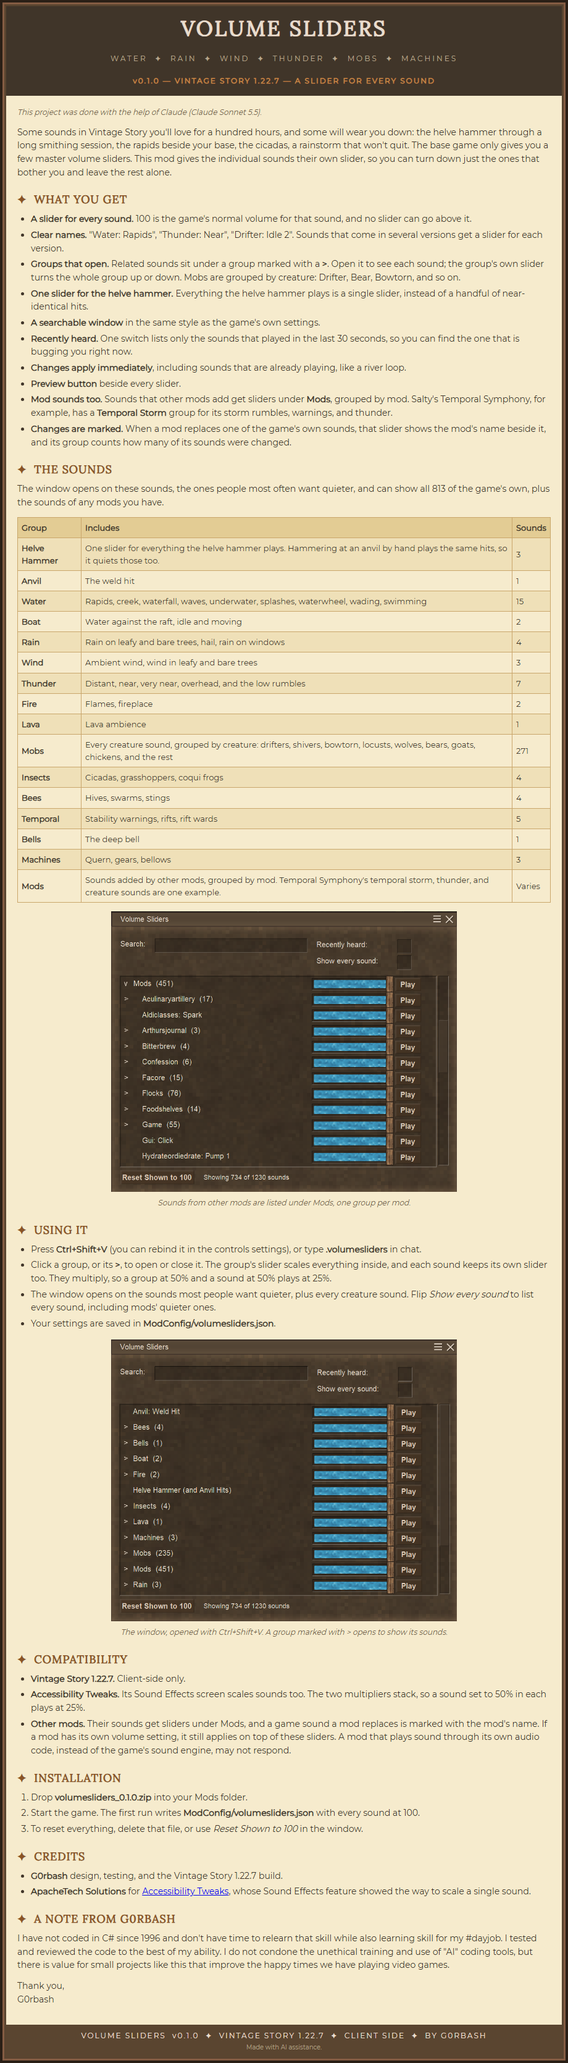
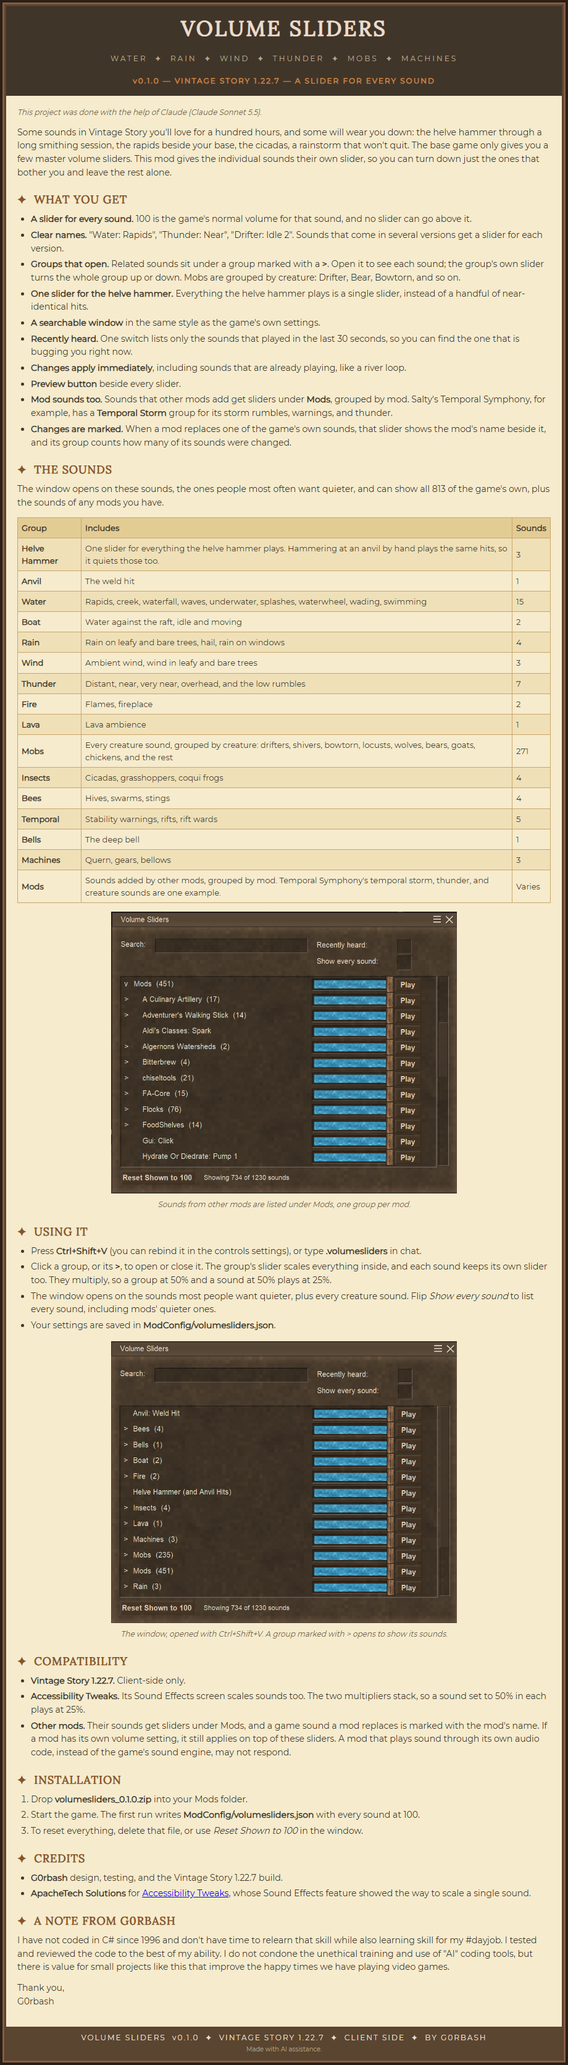
Mod DB description: CSS padding/alignment and strong/em instead of legacy attributes; updated Mods screenshot

diff --git a/docs/moddb-description.html b/docs/moddb-description.html
@@ -1,47 +1,47 @@
 <!-- Paste into the mod description editor on mods.vintagestory.at (source / HTML view). Generated by tools/make_description.py; edit the content there. -->
-<div style="max-width: 920px;"><table style="border-collapse: collapse; width: 100%;" cellpadding="0"><tbody><tr><td style="background: #2a1f16; padding: 4px;"><table style="border-collapse: collapse; width: 100%;" cellpadding="0"><tbody><tr><td style="background: #845c43; padding: 3px;"><table style="border-collapse: collapse; width: 100%;" cellpadding="0"><tbody><tr><td style="background: #5a4530; padding: 3px;"><table style="border-collapse: collapse; width: 100%;" cellpadding="16"><tbody><tr><td style="background: #403529;" align="center"><span style="font-family: Lora, Georgia, 'Times New Roman', serif; font-size: 34px; font-weight: bold; letter-spacing: 3px; color: #e9ddce;">VOLUME SLIDERS</span><br><br><span style="font-family: Montserrat, Verdana, sans-serif; font-size: 12px; letter-spacing: 3px; color: #b5a48c;">WATER &nbsp;&#10022;&nbsp; RAIN &nbsp;&#10022;&nbsp; WIND &nbsp;&#10022;&nbsp; THUNDER &nbsp;&#10022;&nbsp; MOBS &nbsp;&#10022;&nbsp; MACHINES</span><br><br><span style="font-family: Montserrat, Verdana, sans-serif; font-size: 12px; font-weight: bold; letter-spacing: 2px; color: #c58948;">v0.1.0 &mdash; VINTAGE STORY 1.22.7 &mdash; A SLIDER FOR EVERY SOUND</span></td></tr></tbody></table><table style="border-collapse: collapse; width: 100%;" cellpadding="18"><tbody><tr><td style="background: #f6ebcd; color: #403529; font-family: Montserrat, Verdana, sans-serif; font-size: 14px; line-height: 1.55;">
-<p style="margin: 0 0 12px 0; font-size: 12px; color: #6e5a44;"><i>This project was done with the help of Claude (Claude Sonnet 5.5).</i></p>
+<div style="max-width: 920px;"><table style="border-collapse: collapse; width: 100%;"><tbody><tr><td style="background: #2a1f16; padding: 4px;"><table style="border-collapse: collapse; width: 100%;"><tbody><tr><td style="background: #845c43; padding: 3px;"><table style="border-collapse: collapse; width: 100%;"><tbody><tr><td style="background: #5a4530; padding: 3px;"><table style="border-collapse: collapse; width: 100%;"><tbody><tr><td style="background: #403529; padding: 16px; text-align: center;"><span style="font-family: Lora, Georgia, 'Times New Roman', serif; font-size: 34px; font-weight: bold; letter-spacing: 3px; color: #e9ddce;">VOLUME SLIDERS</span><br><br><span style="font-family: Montserrat, Verdana, sans-serif; font-size: 12px; letter-spacing: 3px; color: #b5a48c;">WATER &nbsp;&#10022;&nbsp; RAIN &nbsp;&#10022;&nbsp; WIND &nbsp;&#10022;&nbsp; THUNDER &nbsp;&#10022;&nbsp; MOBS &nbsp;&#10022;&nbsp; MACHINES</span><br><br><span style="font-family: Montserrat, Verdana, sans-serif; font-size: 12px; font-weight: bold; letter-spacing: 2px; color: #c58948;">v0.1.0 &mdash; VINTAGE STORY 1.22.7 &mdash; A SLIDER FOR EVERY SOUND</span></td></tr></tbody></table><table style="border-collapse: collapse; width: 100%;"><tbody><tr><td style="background: #f6ebcd; color: #403529; padding: 18px; font-family: Montserrat, Verdana, sans-serif; font-size: 14px; line-height: 1.55;">
+<p style="margin: 0 0 12px 0; font-size: 12px; color: #6e5a44;"><em>This project was done with the help of Claude (Claude Sonnet 5.5).</em></p>
 <p style="margin: 0 0 12px 0;">Some sounds in Vintage Story you'll love for a hundred hours, and some will wear you down: the helve hammer through a long smithing session, the rapids beside your base, the cicadas, a rainstorm that won't quit. The base game only gives you a few master volume sliders. This mod gives the individual sounds their own slider, so you can turn down just the ones that bother you and leave the rest alone.</p>
 <div class="spoiler">
 <div class="spoiler-toggle">Screenshots</div>
 <div class="spoiler-text">
 <p><img src="https://raw.githubusercontent.com/g0rbash/Vintage-Story---Volume-Sliders/main/docs/images/screenshots/window.png" width="700" height="571" alt="The window, opened with Ctrl+Shift+V. A group marked with &gt; opens to show its sounds."></p>
-<p><i>The window, opened with Ctrl+Shift+V. A group marked with &gt; opens to show its sounds.</i></p>
-<p><img src="https://raw.githubusercontent.com/g0rbash/Vintage-Story---Volume-Sliders/main/docs/images/screenshots/mods-section.png" width="700" height="568" alt="Sounds from other mods are listed under Mods, one group per mod."></p>
-<p><i>Sounds from other mods are listed under Mods, one group per mod.</i></p>
+<p><em>The window, opened with Ctrl+Shift+V. A group marked with &gt; opens to show its sounds.</em></p>
+<p><img src="https://raw.githubusercontent.com/g0rbash/Vintage-Story---Volume-Sliders/main/docs/images/screenshots/mods-section.png" width="700" height="570" alt="Sounds from other mods are listed under Mods, one group per mod."></p>
+<p><em>Sounds from other mods are listed under Mods, one group per mod.</em></p>
 </div>
 </div>
 <p style="margin: 20px 0 6px 0; color: #8a5426; font-family: Lora, Georgia, 'Times New Roman', serif; font-size: 18px; font-weight: bold; letter-spacing: 1px;">&#10022;&nbsp; WHAT YOU GET</p>
-<ul style="margin: 0 0 14px 22px; padding: 0;"><li style="margin: 0 0 4px 0;"><b>A slider for every sound.</b> 100 is the game's normal volume for that sound, and no slider can go above it.</li><li style="margin: 0 0 4px 0;"><b>Clear names.</b> "Water: Rapids", "Thunder: Near", "Drifter: Idle 2". Sounds that come in several versions get a slider for each version.</li><li style="margin: 0 0 4px 0;"><b>Groups that open.</b> Related sounds sit under a group marked with a <b>&gt;</b>. Open it to see each sound; the group's own slider turns the whole group up or down. Mobs are grouped by creature: Drifter, Bear, Bowtorn, and so on.</li><li style="margin: 0 0 4px 0;"><b>One slider for the helve hammer.</b> Everything the helve hammer plays is a single slider, instead of a handful of near-identical hits.</li><li style="margin: 0 0 4px 0;"><b>A searchable window</b> in the same style as the game's own settings.</li><li style="margin: 0 0 4px 0;"><b>Recently heard.</b> One switch lists only the sounds that played in the last 30 seconds, so you can find the one that is bugging you right now.</li><li style="margin: 0 0 4px 0;"><b>Changes apply immediately</b>, including sounds that are already playing, like a river loop.</li><li style="margin: 0 0 4px 0;"><b>Preview button</b> beside every slider.</li><li style="margin: 0 0 4px 0;"><b>Mod sounds too.</b> Sounds that other mods add get sliders under <b>Mods</b>, grouped by mod. Salty's Temporal Symphony, for example, has a <b>Temporal Storm</b> group for its storm rumbles, warnings, and thunder.</li><li style="margin: 0 0 4px 0;"><b>Changes are marked.</b> When a mod replaces one of the game's own sounds, that slider shows the mod's name beside it, and its group counts how many of its sounds were changed.</li></ul>
+<ul style="margin: 0 0 14px 22px; padding: 0;"><li style="margin: 0 0 4px 0;"><strong>A slider for every sound.</strong> 100 is the game's normal volume for that sound, and no slider can go above it.</li><li style="margin: 0 0 4px 0;"><strong>Clear names.</strong> "Water: Rapids", "Thunder: Near", "Drifter: Idle 2". Sounds that come in several versions get a slider for each version.</li><li style="margin: 0 0 4px 0;"><strong>Groups that open.</strong> Related sounds sit under a group marked with a <strong>&gt;</strong>. Open it to see each sound; the group's own slider turns the whole group up or down. Mobs are grouped by creature: Drifter, Bear, Bowtorn, and so on.</li><li style="margin: 0 0 4px 0;"><strong>One slider for the helve hammer.</strong> Everything the helve hammer plays is a single slider, instead of a handful of near-identical hits.</li><li style="margin: 0 0 4px 0;"><strong>A searchable window</strong> in the same style as the game's own settings.</li><li style="margin: 0 0 4px 0;"><strong>Recently heard.</strong> One switch lists only the sounds that played in the last 30 seconds, so you can find the one that is bugging you right now.</li><li style="margin: 0 0 4px 0;"><strong>Changes apply immediately</strong>, including sounds that are already playing, like a river loop.</li><li style="margin: 0 0 4px 0;"><strong>Preview button</strong> beside every slider.</li><li style="margin: 0 0 4px 0;"><strong>Mod sounds too.</strong> Sounds that other mods add get sliders under <strong>Mods</strong>, grouped by mod. Salty's Temporal Symphony, for example, has a <strong>Temporal Storm</strong> group for its storm rumbles, warnings, and thunder.</li><li style="margin: 0 0 4px 0;"><strong>Changes are marked.</strong> When a mod replaces one of the game's own sounds, that slider shows the mod's name beside it, and its group counts how many of its sounds were changed.</li></ul>
 <p style="margin: 20px 0 6px 0; color: #8a5426; font-family: Lora, Georgia, 'Times New Roman', serif; font-size: 18px; font-weight: bold; letter-spacing: 1px;">&#10022;&nbsp; THE SOUNDS</p>
 <p style="margin: 0 0 12px 0;">The window opens on these sounds, the ones people most often want quieter, and can show all 813 of the game's own, plus the sounds of any mods you have.</p>
-<table style="border-collapse: collapse; margin: 0 0 14px 0; width: 100%; font-family: Montserrat, Verdana, sans-serif; font-size: 13px; color: #403529;" cellpadding="6"><tbody>
-<tr style="background: #e3cc94;"><td style="border: 1px solid #c9a66b;"><b>Group</b></td><td style="border: 1px solid #c9a66b;"><b>Includes</b></td><td style="border: 1px solid #c9a66b;"><b>Sounds</b></td></tr>
-<tr style="background: #efe0b8;"><td style="border: 1px solid #c9a66b;"><b>Helve Hammer</b></td><td style="border: 1px solid #c9a66b;">One slider for everything the helve hammer plays. Hammering at an anvil by hand plays the same hits, so it quiets those too.</td><td style="border: 1px solid #c9a66b;">3</td></tr>
-<tr style="background: #f6ebcd;"><td style="border: 1px solid #c9a66b;"><b>Anvil</b></td><td style="border: 1px solid #c9a66b;">The weld hit</td><td style="border: 1px solid #c9a66b;">1</td></tr>
-<tr style="background: #efe0b8;"><td style="border: 1px solid #c9a66b;"><b>Water</b></td><td style="border: 1px solid #c9a66b;">Rapids, creek, waterfall, waves, underwater, splashes, waterwheel, wading, swimming</td><td style="border: 1px solid #c9a66b;">15</td></tr>
-<tr style="background: #f6ebcd;"><td style="border: 1px solid #c9a66b;"><b>Boat</b></td><td style="border: 1px solid #c9a66b;">Water against the raft, idle and moving</td><td style="border: 1px solid #c9a66b;">2</td></tr>
-<tr style="background: #efe0b8;"><td style="border: 1px solid #c9a66b;"><b>Rain</b></td><td style="border: 1px solid #c9a66b;">Rain on leafy and bare trees, hail, rain on windows</td><td style="border: 1px solid #c9a66b;">4</td></tr>
-<tr style="background: #f6ebcd;"><td style="border: 1px solid #c9a66b;"><b>Wind</b></td><td style="border: 1px solid #c9a66b;">Ambient wind, wind in leafy and bare trees</td><td style="border: 1px solid #c9a66b;">3</td></tr>
-<tr style="background: #efe0b8;"><td style="border: 1px solid #c9a66b;"><b>Thunder</b></td><td style="border: 1px solid #c9a66b;">Distant, near, very near, overhead, and the low rumbles</td><td style="border: 1px solid #c9a66b;">7</td></tr>
-<tr style="background: #f6ebcd;"><td style="border: 1px solid #c9a66b;"><b>Fire</b></td><td style="border: 1px solid #c9a66b;">Flames, fireplace</td><td style="border: 1px solid #c9a66b;">2</td></tr>
-<tr style="background: #efe0b8;"><td style="border: 1px solid #c9a66b;"><b>Lava</b></td><td style="border: 1px solid #c9a66b;">Lava ambience</td><td style="border: 1px solid #c9a66b;">1</td></tr>
-<tr style="background: #f6ebcd;"><td style="border: 1px solid #c9a66b;"><b>Mobs</b></td><td style="border: 1px solid #c9a66b;">Every creature sound, grouped by creature: drifters, shivers, bowtorn, locusts, wolves, bears, goats, chickens, and the rest</td><td style="border: 1px solid #c9a66b;">271</td></tr>
-<tr style="background: #efe0b8;"><td style="border: 1px solid #c9a66b;"><b>Insects</b></td><td style="border: 1px solid #c9a66b;">Cicadas, grasshoppers, coqui frogs</td><td style="border: 1px solid #c9a66b;">4</td></tr>
-<tr style="background: #f6ebcd;"><td style="border: 1px solid #c9a66b;"><b>Bees</b></td><td style="border: 1px solid #c9a66b;">Hives, swarms, stings</td><td style="border: 1px solid #c9a66b;">4</td></tr>
-<tr style="background: #efe0b8;"><td style="border: 1px solid #c9a66b;"><b>Temporal</b></td><td style="border: 1px solid #c9a66b;">Stability warnings, rifts, rift wards</td><td style="border: 1px solid #c9a66b;">5</td></tr>
-<tr style="background: #f6ebcd;"><td style="border: 1px solid #c9a66b;"><b>Bells</b></td><td style="border: 1px solid #c9a66b;">The deep bell</td><td style="border: 1px solid #c9a66b;">1</td></tr>
-<tr style="background: #efe0b8;"><td style="border: 1px solid #c9a66b;"><b>Machines</b></td><td style="border: 1px solid #c9a66b;">Quern, gears, bellows</td><td style="border: 1px solid #c9a66b;">3</td></tr>
-<tr style="background: #f6ebcd;"><td style="border: 1px solid #c9a66b;"><b>Mods</b></td><td style="border: 1px solid #c9a66b;">Sounds added by other mods, grouped by mod. Temporal Symphony's temporal storm, thunder, and creature sounds are one example.</td><td style="border: 1px solid #c9a66b;">Varies</td></tr></tbody></table>
+<table style="border-collapse: collapse; margin: 0 0 14px 0; width: 100%; font-family: Montserrat, Verdana, sans-serif; font-size: 13px; color: #403529;"><tbody>
+<tr style="background: #e3cc94;"><td style="border: 1px solid #c9a66b; padding: 6px;"><strong>Group</strong></td><td style="border: 1px solid #c9a66b; padding: 6px;"><strong>Includes</strong></td><td style="border: 1px solid #c9a66b; padding: 6px;"><strong>Sounds</strong></td></tr>
+<tr style="background: #efe0b8;"><td style="border: 1px solid #c9a66b; padding: 6px;"><strong>Helve Hammer</strong></td><td style="border: 1px solid #c9a66b; padding: 6px;">One slider for everything the helve hammer plays. Hammering at an anvil by hand plays the same hits, so it quiets those too.</td><td style="border: 1px solid #c9a66b; padding: 6px;">3</td></tr>
+<tr style="background: #f6ebcd;"><td style="border: 1px solid #c9a66b; padding: 6px;"><strong>Anvil</strong></td><td style="border: 1px solid #c9a66b; padding: 6px;">The weld hit</td><td style="border: 1px solid #c9a66b; padding: 6px;">1</td></tr>
+<tr style="background: #efe0b8;"><td style="border: 1px solid #c9a66b; padding: 6px;"><strong>Water</strong></td><td style="border: 1px solid #c9a66b; padding: 6px;">Rapids, creek, waterfall, waves, underwater, splashes, waterwheel, wading, swimming</td><td style="border: 1px solid #c9a66b; padding: 6px;">15</td></tr>
+<tr style="background: #f6ebcd;"><td style="border: 1px solid #c9a66b; padding: 6px;"><strong>Boat</strong></td><td style="border: 1px solid #c9a66b; padding: 6px;">Water against the raft, idle and moving</td><td style="border: 1px solid #c9a66b; padding: 6px;">2</td></tr>
+<tr style="background: #efe0b8;"><td style="border: 1px solid #c9a66b; padding: 6px;"><strong>Rain</strong></td><td style="border: 1px solid #c9a66b; padding: 6px;">Rain on leafy and bare trees, hail, rain on windows</td><td style="border: 1px solid #c9a66b; padding: 6px;">4</td></tr>
+<tr style="background: #f6ebcd;"><td style="border: 1px solid #c9a66b; padding: 6px;"><strong>Wind</strong></td><td style="border: 1px solid #c9a66b; padding: 6px;">Ambient wind, wind in leafy and bare trees</td><td style="border: 1px solid #c9a66b; padding: 6px;">3</td></tr>
+<tr style="background: #efe0b8;"><td style="border: 1px solid #c9a66b; padding: 6px;"><strong>Thunder</strong></td><td style="border: 1px solid #c9a66b; padding: 6px;">Distant, near, very near, overhead, and the low rumbles</td><td style="border: 1px solid #c9a66b; padding: 6px;">7</td></tr>
+<tr style="background: #f6ebcd;"><td style="border: 1px solid #c9a66b; padding: 6px;"><strong>Fire</strong></td><td style="border: 1px solid #c9a66b; padding: 6px;">Flames, fireplace</td><td style="border: 1px solid #c9a66b; padding: 6px;">2</td></tr>
+<tr style="background: #efe0b8;"><td style="border: 1px solid #c9a66b; padding: 6px;"><strong>Lava</strong></td><td style="border: 1px solid #c9a66b; padding: 6px;">Lava ambience</td><td style="border: 1px solid #c9a66b; padding: 6px;">1</td></tr>
+<tr style="background: #f6ebcd;"><td style="border: 1px solid #c9a66b; padding: 6px;"><strong>Mobs</strong></td><td style="border: 1px solid #c9a66b; padding: 6px;">Every creature sound, grouped by creature: drifters, shivers, bowtorn, locusts, wolves, bears, goats, chickens, and the rest</td><td style="border: 1px solid #c9a66b; padding: 6px;">271</td></tr>
+<tr style="background: #efe0b8;"><td style="border: 1px solid #c9a66b; padding: 6px;"><strong>Insects</strong></td><td style="border: 1px solid #c9a66b; padding: 6px;">Cicadas, grasshoppers, coqui frogs</td><td style="border: 1px solid #c9a66b; padding: 6px;">4</td></tr>
+<tr style="background: #f6ebcd;"><td style="border: 1px solid #c9a66b; padding: 6px;"><strong>Bees</strong></td><td style="border: 1px solid #c9a66b; padding: 6px;">Hives, swarms, stings</td><td style="border: 1px solid #c9a66b; padding: 6px;">4</td></tr>
+<tr style="background: #efe0b8;"><td style="border: 1px solid #c9a66b; padding: 6px;"><strong>Temporal</strong></td><td style="border: 1px solid #c9a66b; padding: 6px;">Stability warnings, rifts, rift wards</td><td style="border: 1px solid #c9a66b; padding: 6px;">5</td></tr>
+<tr style="background: #f6ebcd;"><td style="border: 1px solid #c9a66b; padding: 6px;"><strong>Bells</strong></td><td style="border: 1px solid #c9a66b; padding: 6px;">The deep bell</td><td style="border: 1px solid #c9a66b; padding: 6px;">1</td></tr>
+<tr style="background: #efe0b8;"><td style="border: 1px solid #c9a66b; padding: 6px;"><strong>Machines</strong></td><td style="border: 1px solid #c9a66b; padding: 6px;">Quern, gears, bellows</td><td style="border: 1px solid #c9a66b; padding: 6px;">3</td></tr>
+<tr style="background: #f6ebcd;"><td style="border: 1px solid #c9a66b; padding: 6px;"><strong>Mods</strong></td><td style="border: 1px solid #c9a66b; padding: 6px;">Sounds added by other mods, grouped by mod. Temporal Symphony's temporal storm, thunder, and creature sounds are one example.</td><td style="border: 1px solid #c9a66b; padding: 6px;">Varies</td></tr></tbody></table>
 <p style="margin: 20px 0 6px 0; color: #8a5426; font-family: Lora, Georgia, 'Times New Roman', serif; font-size: 18px; font-weight: bold; letter-spacing: 1px;">&#10022;&nbsp; USING IT</p>
-<ul style="margin: 0 0 14px 22px; padding: 0;"><li style="margin: 0 0 4px 0;">Press <b>Ctrl+Shift+V</b> (you can rebind it in the controls settings), or type <b>.volumesliders</b> in chat.</li><li style="margin: 0 0 4px 0;">Click a group, or its <b>&gt;</b>, to open or close it. The group's slider scales everything inside, and each sound keeps its own slider too. They multiply, so a group at 50% and a sound at 50% plays at 25%.</li><li style="margin: 0 0 4px 0;">The window opens on the sounds most people want quieter, plus every creature sound. Flip <i>Show every sound</i> to list every sound, including mods' quieter ones.</li><li style="margin: 0 0 4px 0;">Your settings are saved in <b>ModConfig/volumesliders.json</b>.</li></ul>
+<ul style="margin: 0 0 14px 22px; padding: 0;"><li style="margin: 0 0 4px 0;">Press <strong>Ctrl+Shift+V</strong> (you can rebind it in the controls settings), or type <strong>.volumesliders</strong> in chat.</li><li style="margin: 0 0 4px 0;">Click a group, or its <strong>&gt;</strong>, to open or close it. The group's slider scales everything inside, and each sound keeps its own slider too. They multiply, so a group at 50% and a sound at 50% plays at 25%.</li><li style="margin: 0 0 4px 0;">The window opens on the sounds most people want quieter, plus every creature sound. Flip <em>Show every sound</em> to list every sound, including mods' quieter ones.</li><li style="margin: 0 0 4px 0;">Your settings are saved in <strong>ModConfig/volumesliders.json</strong>.</li></ul>
 <p style="margin: 20px 0 6px 0; color: #8a5426; font-family: Lora, Georgia, 'Times New Roman', serif; font-size: 18px; font-weight: bold; letter-spacing: 1px;">&#10022;&nbsp; COMPATIBILITY</p>
-<ul style="margin: 0 0 14px 22px; padding: 0;"><li style="margin: 0 0 4px 0;"><b>Vintage Story 1.22.7.</b> Client-side only.</li><li style="margin: 0 0 4px 0;"><b>Accessibility Tweaks.</b> Its Sound Effects screen scales sounds too. The two multipliers stack, so a sound set to 50% in each plays at 25%.</li><li style="margin: 0 0 4px 0;"><b>Other mods.</b> Their sounds get sliders under Mods, and a game sound a mod replaces is marked with the mod's name. If a mod has its own volume setting, it still applies on top of these sliders. A mod that plays sound through its own audio code, instead of the game's sound engine, may not respond.</li></ul>
+<ul style="margin: 0 0 14px 22px; padding: 0;"><li style="margin: 0 0 4px 0;"><strong>Vintage Story 1.22.7.</strong> Client-side only.</li><li style="margin: 0 0 4px 0;"><strong>Accessibility Tweaks.</strong> Its Sound Effects screen scales sounds too. The two multipliers stack, so a sound set to 50% in each plays at 25%.</li><li style="margin: 0 0 4px 0;"><strong>Other mods.</strong> Their sounds get sliders under Mods, and a game sound a mod replaces is marked with the mod's name. If a mod has its own volume setting, it still applies on top of these sliders. A mod that plays sound through its own audio code, instead of the game's sound engine, may not respond.</li></ul>
 <p style="margin: 20px 0 6px 0; color: #8a5426; font-family: Lora, Georgia, 'Times New Roman', serif; font-size: 18px; font-weight: bold; letter-spacing: 1px;">&#10022;&nbsp; INSTALLATION</p>
-<ol style="margin: 0 0 14px 22px; padding: 0;"><li style="margin: 0 0 4px 0;">Drop <b>volumesliders_0.1.0.zip</b> into your Mods folder.</li><li style="margin: 0 0 4px 0;">Start the game. The first run writes <b>ModConfig/volumesliders.json</b> with every sound at 100.</li><li style="margin: 0 0 4px 0;">To reset everything, delete that file, or use <i>Reset Shown to 100</i> in the window.</li></ol>
+<ol style="margin: 0 0 14px 22px; padding: 0;"><li style="margin: 0 0 4px 0;">Drop <strong>volumesliders_0.1.0.zip</strong> into your Mods folder.</li><li style="margin: 0 0 4px 0;">Start the game. The first run writes <strong>ModConfig/volumesliders.json</strong> with every sound at 100.</li><li style="margin: 0 0 4px 0;">To reset everything, delete that file, or use <em>Reset Shown to 100</em> in the window.</li></ol>
 <p style="margin: 20px 0 6px 0; color: #8a5426; font-family: Lora, Georgia, 'Times New Roman', serif; font-size: 18px; font-weight: bold; letter-spacing: 1px;">&#10022;&nbsp; CREDITS</p>
-<ul style="margin: 0 0 14px 22px; padding: 0;"><li style="margin: 0 0 4px 0;"><b>G0rbash</b> design, testing, and the Vintage Story 1.22.7 build.</li><li style="margin: 0 0 4px 0;"><b>ApacheTech Solutions</b> for <a href="https://mods.vintagestory.at/accessibilitytweaks">Accessibility Tweaks</a>, whose Sound Effects feature showed the way to scale a single sound.</li></ul>
+<ul style="margin: 0 0 14px 22px; padding: 0;"><li style="margin: 0 0 4px 0;"><strong>G0rbash</strong> design, testing, and the Vintage Story 1.22.7 build.</li><li style="margin: 0 0 4px 0;"><strong>ApacheTech Solutions</strong> for <a href="https://mods.vintagestory.at/accessibilitytweaks">Accessibility Tweaks</a>, whose Sound Effects feature showed the way to scale a single sound.</li></ul>
 <p style="margin: 20px 0 6px 0; color: #8a5426; font-family: Lora, Georgia, 'Times New Roman', serif; font-size: 18px; font-weight: bold; letter-spacing: 1px;">&#10022;&nbsp; A NOTE FROM G0RBASH</p>
 <p style="margin: 0 0 12px 0;">I have not coded in C# since 1996 and don't have time to relearn that skill while also learning skill for my #dayjob. I tested and reviewed the code to the best of my ability. I do not condone the unethical training and use of &quot;AI&quot; coding tools, but there is value for small projects like this that improve the happy times we have playing video games.</p>
 <p style="margin: 0 0 12px 0;">Thank you,<br>G0rbash</p>
-</td></tr></tbody></table><table style="border-collapse: collapse; width: 100%;" cellpadding="8"><tbody><tr><td style="background: #5a4530;" align="center"><span style="font-family: Montserrat, Verdana, sans-serif; font-size: 12px; letter-spacing: 2px; color: #e9ddce;">VOLUME SLIDERS &nbsp;v0.1.0 &nbsp;&#10022;&nbsp; VINTAGE STORY 1.22.7 &nbsp;&#10022;&nbsp; CLIENT SIDE &nbsp;&#10022;&nbsp; BY G0RBASH</span><br><span style="font-family: Montserrat, Verdana, sans-serif; font-size: 10px; color: #b5a48c;">Made with AI assistance.</span></td></tr></tbody></table></td></tr></tbody></table></td></tr></tbody></table></td></tr></tbody></table></div>
+</td></tr></tbody></table><table style="border-collapse: collapse; width: 100%;"><tbody><tr><td style="background: #5a4530; padding: 8px; text-align: center;"><span style="font-family: Montserrat, Verdana, sans-serif; font-size: 12px; letter-spacing: 2px; color: #e9ddce;">VOLUME SLIDERS &nbsp;v0.1.0 &nbsp;&#10022;&nbsp; VINTAGE STORY 1.22.7 &nbsp;&#10022;&nbsp; CLIENT SIDE &nbsp;&#10022;&nbsp; BY G0RBASH</span><br><span style="font-family: Montserrat, Verdana, sans-serif; font-size: 10px; color: #b5a48c;">Made with AI assistance.</span></td></tr></tbody></table></td></tr></tbody></table></td></tr></tbody></table></td></tr></tbody></table></div>

diff --git a/tools/make_description.py b/tools/make_description.py
@@ -144,7 +144,7 @@ SANS = "font-family: Montserrat, Verdana, sans-serif;"
 INK = '#403529'
 ACCENT = '#8a5426'
 P = 'margin: 0 0 12px 0;'
-TD = 'border: 1px solid #c9a66b;'
+TD = 'border: 1px solid #c9a66b; padding: 6px;'
 ROW = ['#efe0b8', '#f6ebcd']
 
 
@@ -155,7 +155,7 @@ def h(title):
 
 def table(headers, rows):
     out = [f'<table style="border-collapse: collapse; margin: 0 0 14px 0; width: 100%; {SANS} font-size: 13px; '
-           f'color: {INK};" cellpadding="6"><tbody>',
+           f'color: {INK};"><tbody>',
            '<tr style="background: #e3cc94;">' + ''.join(f'<td style="{TD}"><b>{c}</b></td>' for c in headers) + '</tr>']
     for i, r in enumerate(rows):
         out.append(f'<tr style="background: {ROW[i % 2]};">' + ''.join(f'<td style="{TD}">{c}</td>' for c in r) + '</tr>')
@@ -168,7 +168,7 @@ def ul(items, tag='ul'):
 
 
 def frame(color, pad, inner):
-    return (f'<table style="border-collapse: collapse; width: 100%;" cellpadding="0"><tbody><tr>'
+    return (f'<table style="border-collapse: collapse; width: 100%;"><tbody><tr>'
             f'<td style="background: {color}; padding: {pad}px;">{inner}</td></tr></tbody></table>')
 
 
@@ -190,7 +190,7 @@ def data_uri(key):
 
 def figure(key, src):
     caption = SHOTS[key][1].replace('>', '&gt;')
-    return (f'<p style="margin: 4px 0 14px 0;" align="center"><img src="{src}" width="560" alt="{caption}"><br>'
+    return (f'<p style="margin: 4px 0 14px 0; text-align: center;"><img src="{src}" width="560" alt="{caption}"><br>'
             f'<span style="font-size: 12px; color: #6e5a44;"><i>{caption}</i></span></p>\n')
 
 
@@ -237,22 +237,23 @@ def make_body(src_for, spoiler):
     ]
 
 
-title_cell = (f'<td style="background: #403529;" align="center">'
+title_cell = (f'<td style="background: #403529; padding: 16px; text-align: center;">'
               f'<span style="{SERIF} font-size: 34px; font-weight: bold; letter-spacing: 3px; color: #e9ddce;">VOLUME SLIDERS</span><br><br>'
               f'<span style="{SANS} font-size: 12px; letter-spacing: 3px; color: #b5a48c;">WATER &nbsp;&#10022;&nbsp; RAIN &nbsp;&#10022;&nbsp; WIND &nbsp;&#10022;&nbsp; THUNDER &nbsp;&#10022;&nbsp; MOBS &nbsp;&#10022;&nbsp; MACHINES</span><br><br>'
               f'<span style="{SANS} font-size: 12px; font-weight: bold; letter-spacing: 2px; color: #c58948;">v{VERSION} &mdash; VINTAGE STORY {GAME} &mdash; A SLIDER FOR EVERY SOUND</span></td>')
-footer = (f'<td style="background: #5a4530;" align="center">'
+footer = (f'<td style="background: #5a4530; padding: 8px; text-align: center;">'
           f'<span style="{SANS} font-size: 12px; letter-spacing: 2px; color: #e9ddce;">VOLUME SLIDERS &nbsp;v{VERSION} &nbsp;&#10022;&nbsp; VINTAGE STORY {GAME} &nbsp;&#10022;&nbsp; CLIENT SIDE &nbsp;&#10022;&nbsp; BY G0RBASH</span><br>'
           f'<span style="{SANS} font-size: 10px; color: #b5a48c;">Made with AI assistance.</span></td>')
 
 
 def make_panel(body):
-    content = (f'<table style="border-collapse: collapse; width: 100%;" cellpadding="16"><tbody><tr>{title_cell}</tr></tbody></table>'
-               f'<table style="border-collapse: collapse; width: 100%;" cellpadding="18"><tbody><tr>'
-               f'<td style="background: #f6ebcd; color: {INK}; {SANS} font-size: 14px; line-height: 1.55;">\n{"".join(body)}</td></tr></tbody></table>'
-               f'<table style="border-collapse: collapse; width: 100%;" cellpadding="8"><tbody><tr>{footer}</tr></tbody></table>')
-    return ('<div style="max-width: 920px;">'
-            + frame('#2a1f16', 4, frame('#845c43', 3, frame('#5a4530', 3, content))) + '</div>\n')
+    content = (f'<table style="border-collapse: collapse; width: 100%;"><tbody><tr>{title_cell}</tr></tbody></table>'
+               f'<table style="border-collapse: collapse; width: 100%;"><tbody><tr>'
+               f'<td style="background: #f6ebcd; color: {INK}; padding: 18px; {SANS} font-size: 14px; line-height: 1.55;">\n{"".join(body)}</td></tr></tbody></table>'
+               f'<table style="border-collapse: collapse; width: 100%;"><tbody><tr>{footer}</tr></tbody></table>')
+    html_out = ('<div style="max-width: 920px;">'
+                + frame('#2a1f16', 4, frame('#845c43', 3, frame('#5a4530', 3, content))) + '</div>\n')
+    return re.sub(r'<(/?)i>', r'<\1em>', re.sub(r'<(/?)b>', r'<\1strong>', html_out))
 
 
 moddb_panel = make_panel(make_body(lambda k: RAW + SHOTS[k][0], spoiler=True))
